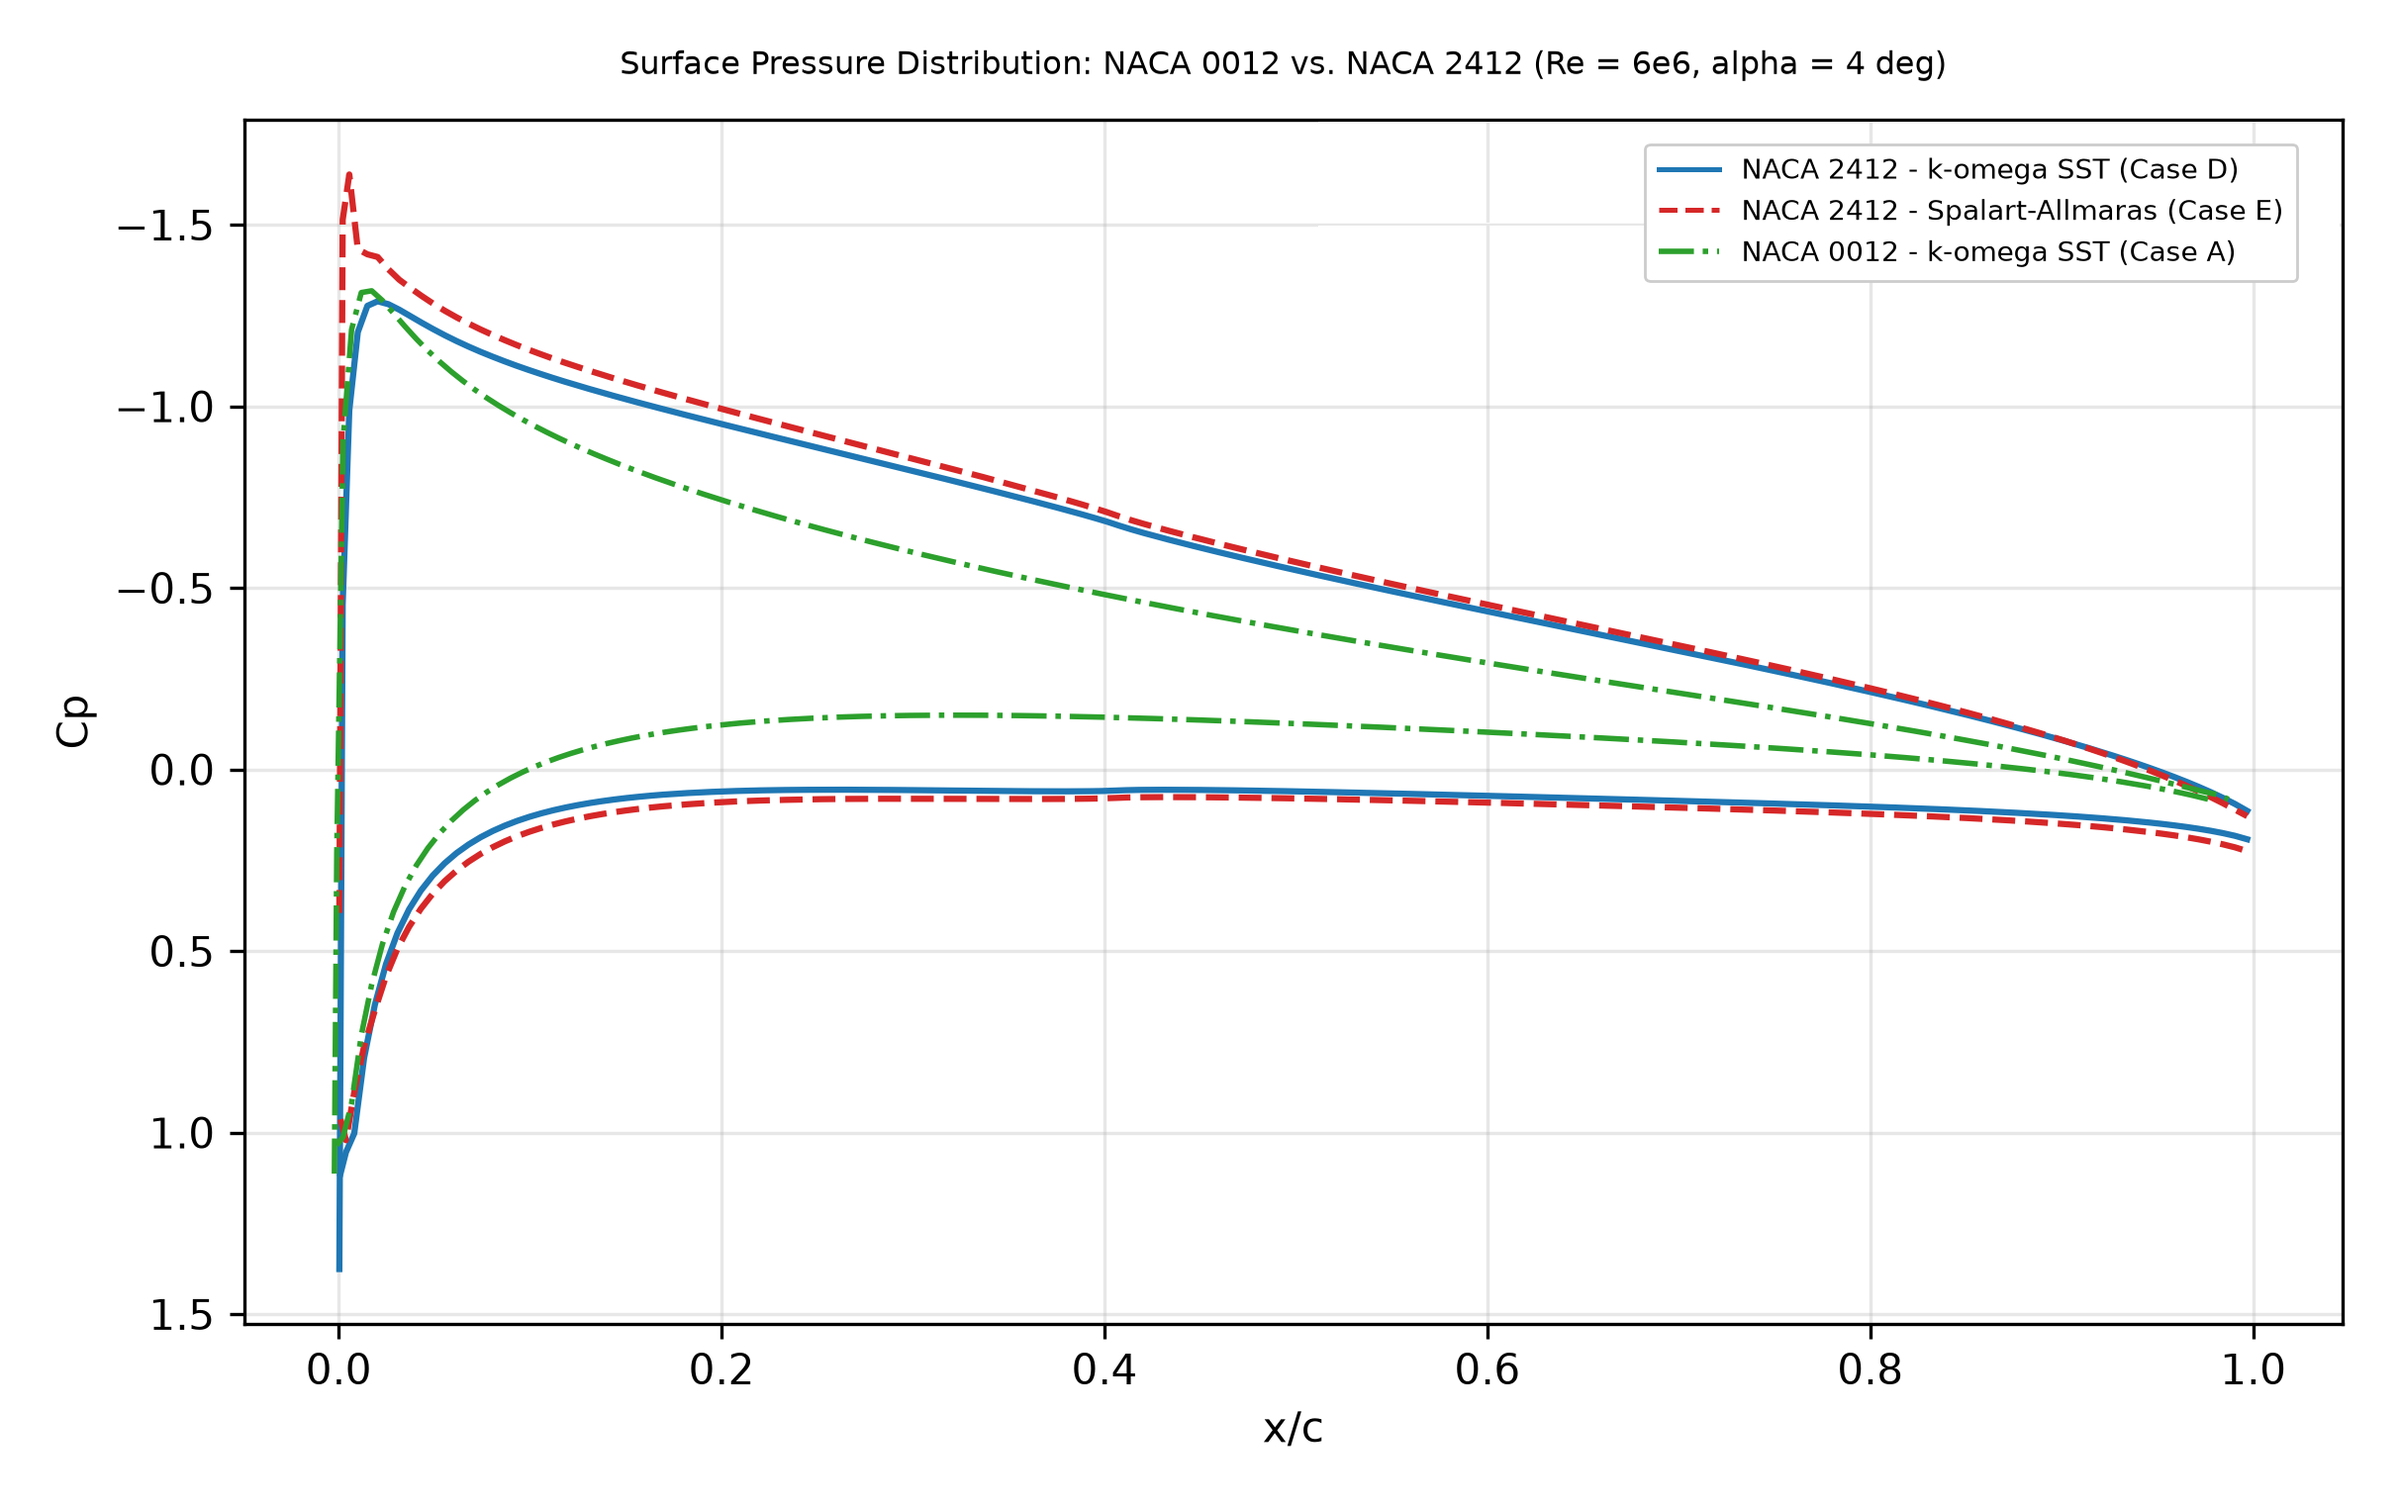
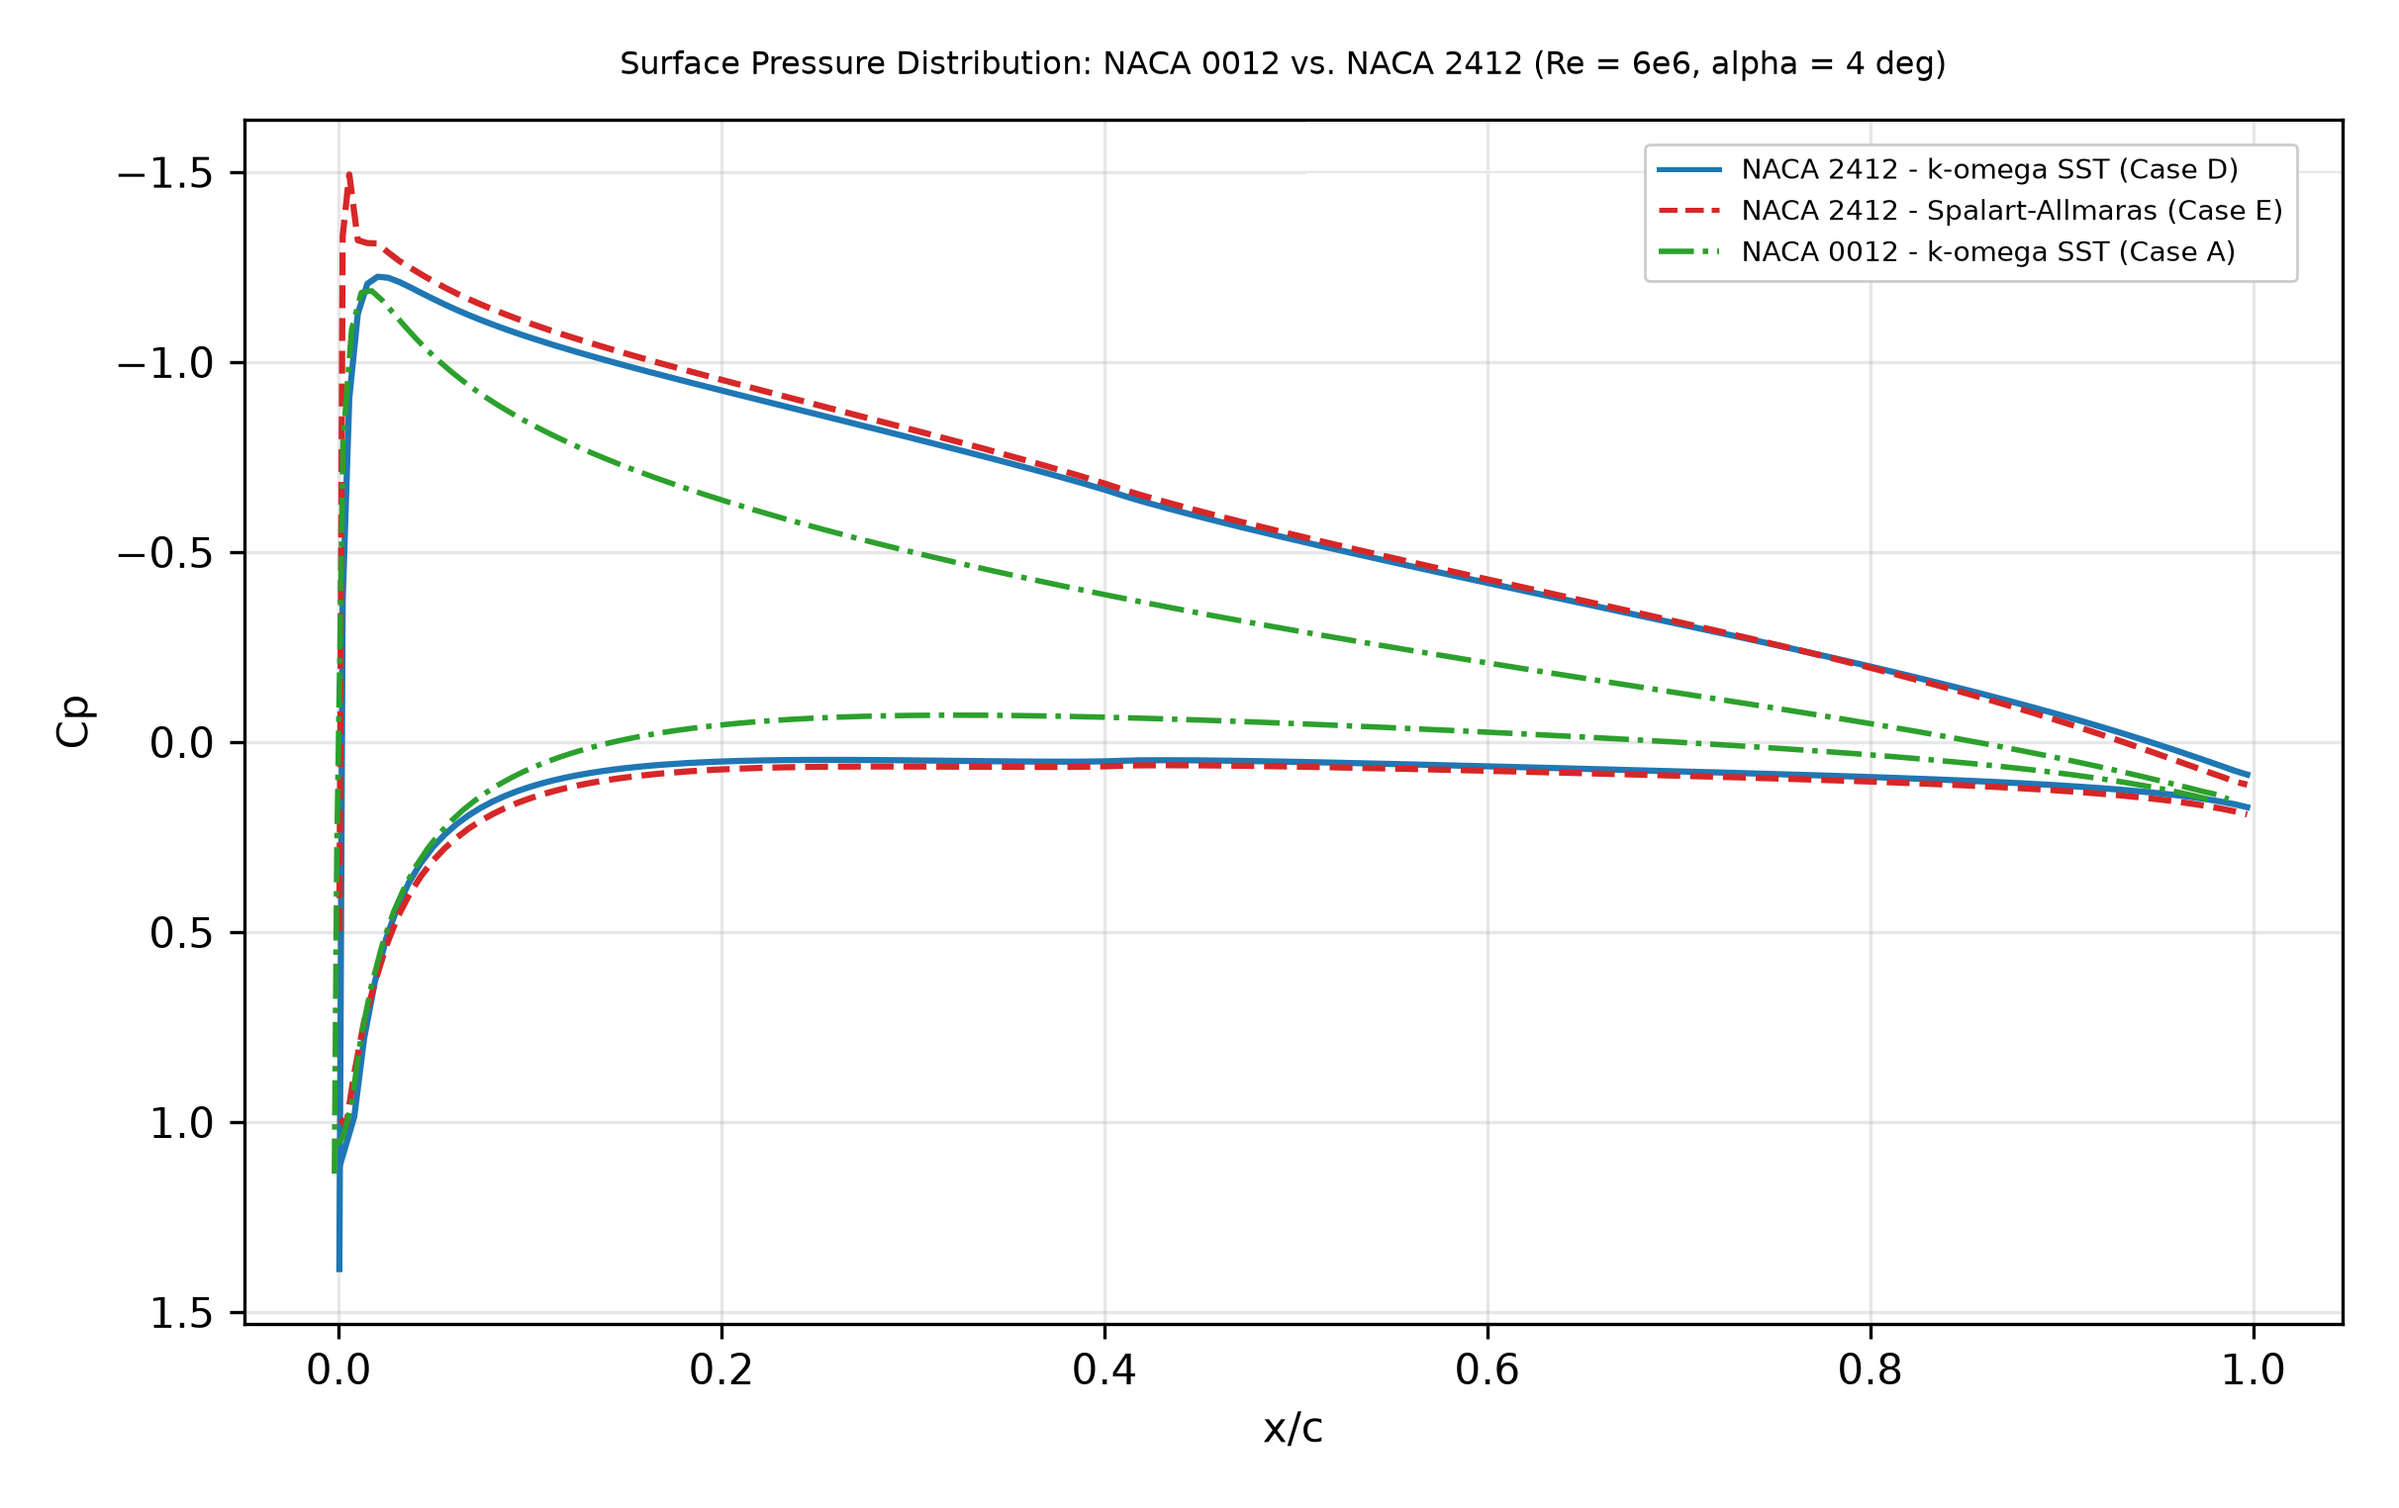
Regenerate NACA 0012 vs 2412 Cp overlay with corrected wall-function 2412 data

diff --git a/scripts/overlay_0012_cp.py b/scripts/overlay_0012_cp.py
@@ -43,23 +43,25 @@ img = mpimg.imread(img_path).copy()
 h, w = img.shape[:2]
 gray = img[:, :, :3].mean(axis=2)
 
-# Find exact pixel row/column of the black top and right axes spines (avoiding the title region)
+# Find exact pixel row/column of the black top and right axes spines
 col_spine = int(0.95 * w) + np.argmin(gray[int(0.50 * h), int(0.95 * w) : int(0.99 * w)])
 row_top_spine = int(0.065 * h) + np.argmin(gray[int(0.065 * h) : int(0.105 * h), int(0.25 * w)])
 
 # Copy a clean 1-pixel-tall horizontal strip (with exact vertical grid lines) from y = 0.245*h over the old legend
 y_top = row_top_spine + 3
 y_bot = int(0.220 * h)
-x_left = int(0.550 * w)
-x_right = col_spine - 2  # stops cleanly inside the anti-aliased right black border
+x_left = int(0.545 * w)
+x_right = col_spine - 2
 clean_row = img[int(0.245 * h) : int(0.245 * h) + 1, x_left:x_right, :]
 img[y_top:y_bot, x_left:x_right, :] = clean_row
 
-# Restore the horizontal y = -1.5 grid line across that same x-range using its clean left segment
-row_m15 = int(0.12 * h) + np.argmin(gray[int(0.12 * h) : int(0.18 * h), int(0.30 * w)])
-img[row_m15 - 1 : row_m15 + 2, x_left:x_right, :] = img[
-    row_m15 - 1 : row_m15 + 2, int(0.30 * w) : int(0.30 * w) + (x_right - x_left), :
-]
+# Average across x = [0.22*w : 0.50*w] to lock onto the exact y = -1.5 horizontal grid line without vertical-grid noise
+band = gray[int(0.10 * h) : int(0.20 * h), int(0.22 * w) : int(0.50 * w)].mean(axis=1)
+row_m15 = int(0.10 * h) + np.argmin(band)
+
+# Tile a clean 1-pixel-wide horizontal grid sample from x = 0.30*w across the full masked legend span
+grid_patch = img[row_m15 - 1 : row_m15 + 2, int(0.30 * w) : int(0.30 * w) + 1, :]
+img[row_m15 - 1 : row_m15 + 2, x_left:x_right, :] = grid_patch
 
 fig = plt.figure(figsize=(w / 200, h / 200), dpi=200)
 ax_bg = fig.add_axes([0, 0, 1, 1])
